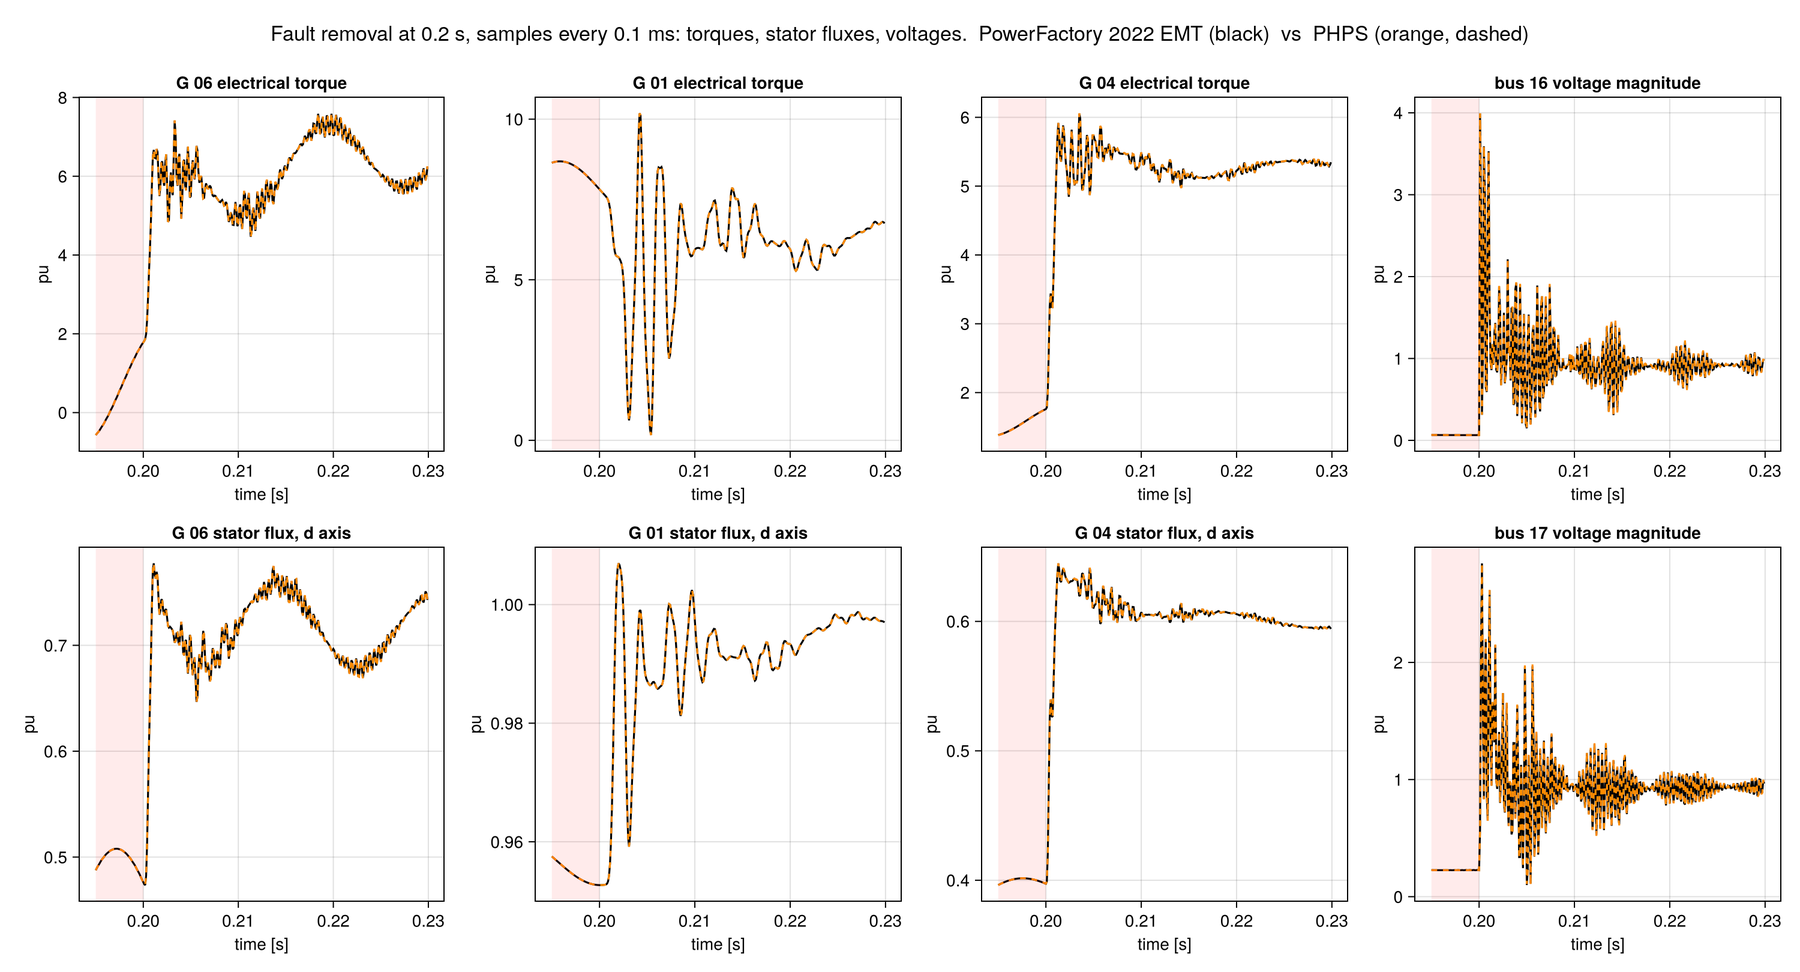
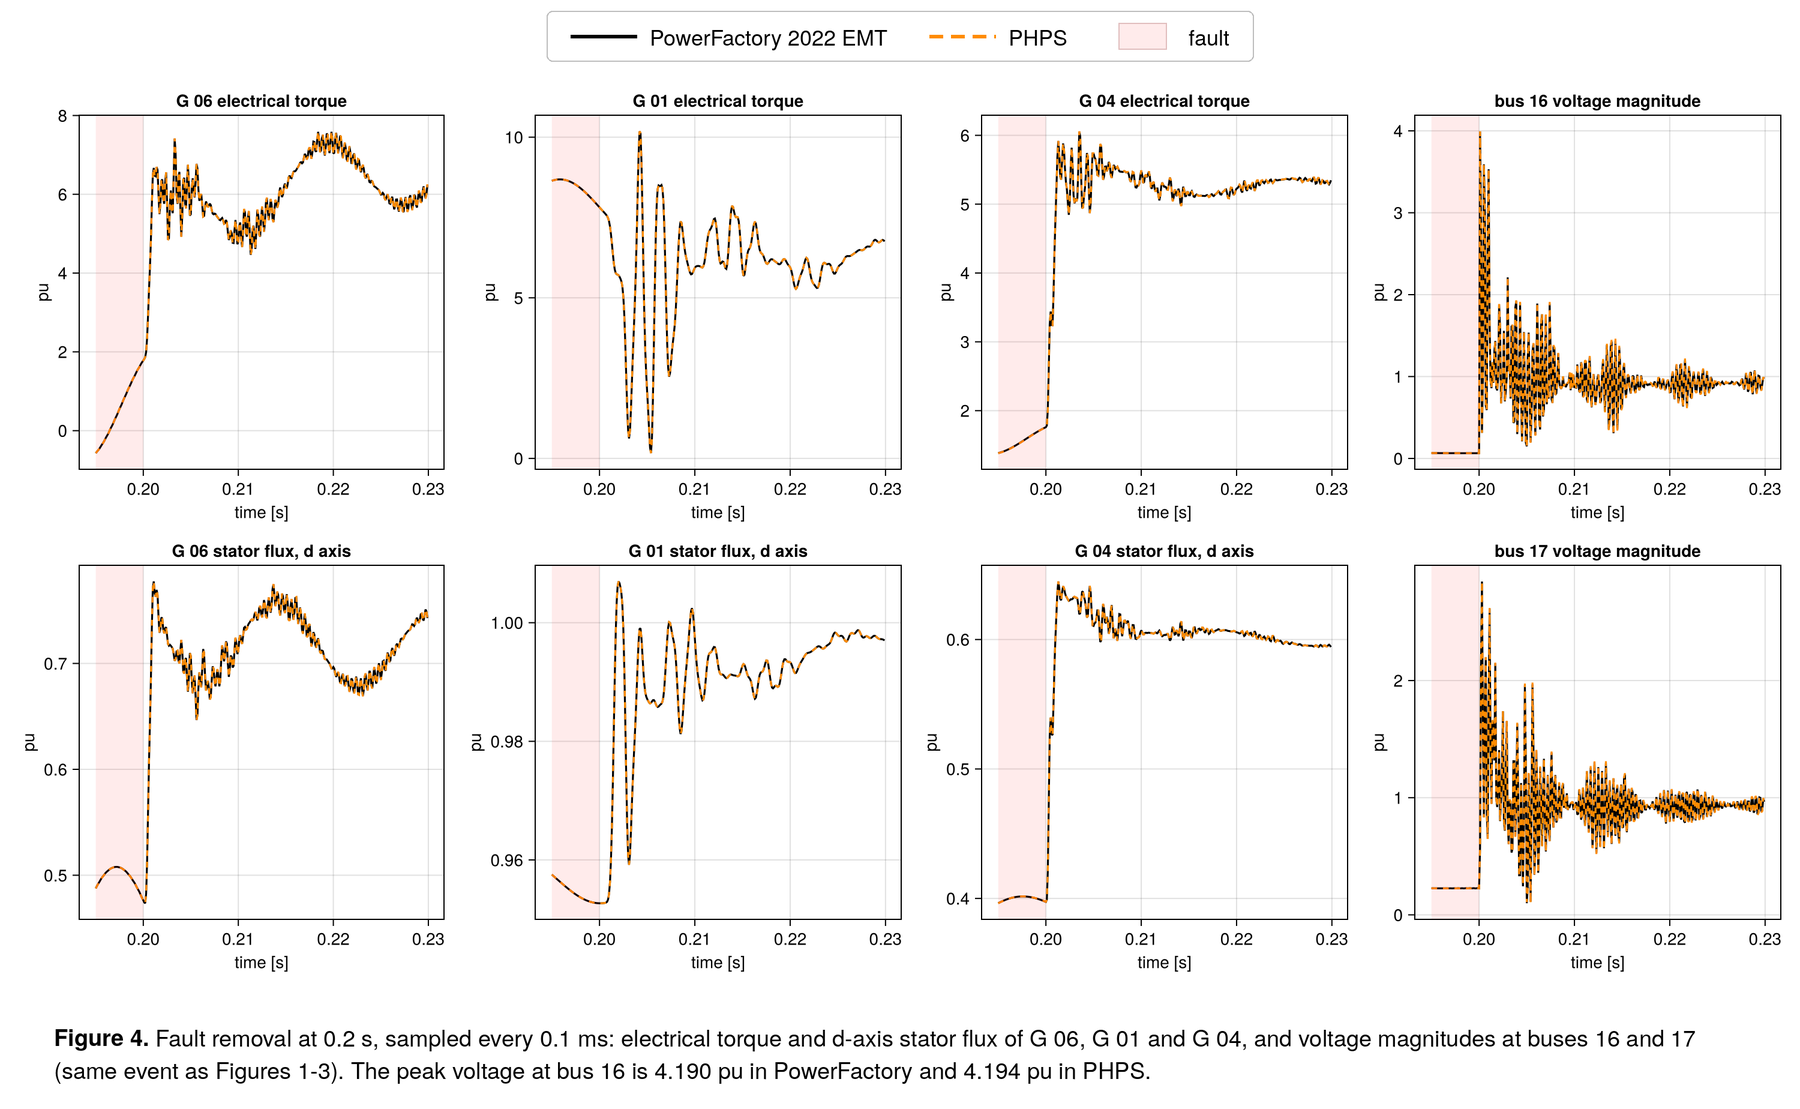
Accuracy figures: legend and numbered captions

diff --git a/docs/figures/README.md b/docs/figures/README.md
@@ -1,8 +1,8 @@
 # Accuracy: PHPS against PowerFactory EMT
 
 These figures compare PHPS's EMT simulation with **DIgSILENT PowerFactory 2022 SP1 in EMT mode** (instantaneous
-values), an established commercial simulator, on the same system and the same event. In every figure PowerFactory is
-the **black** line, PHPS the **orange dashed** line, and the fault is shaded.
+values), an established commercial simulator, on the same system and the same event. Each figure carries its own
+legend (PowerFactory solid black, PHPS orange dashed, the fault shaded) and a caption.
 
 ## The test
 
@@ -34,12 +34,12 @@ Before the fault the two tools sit at the same operating point: largest differen
 
 ## The figures
 
-| File | What it shows |
-|---|---|
-| [accuracy_rotor_angle.png](accuracy_rotor_angle.png) | rotor angle of every machine relative to G 01, over the whole run |
-| [accuracy_speed.png](accuracy_speed.png) | speed of every machine |
-| [accuracy_bus_voltage.png](accuracy_bus_voltage.png) | voltage magnitude at the faulted bus and eleven others, including the electromagnetic ringing at fault inception and removal |
-| [accuracy_fault_clearing.png](accuracy_fault_clearing.png) | a 35 ms window around fault removal at 0.1 ms resolution: electrical torques and stator fluxes of three machines, voltages at buses 16 and 17 |
+| Figure | File | What it shows |
+|---|---|---|
+| 1 | [accuracy_rotor_angle.png](accuracy_rotor_angle.png) | rotor angle of every machine relative to G 01, over the whole run |
+| 2 | [accuracy_speed.png](accuracy_speed.png) | speed of every machine |
+| 3 | [accuracy_bus_voltage.png](accuracy_bus_voltage.png) | voltage magnitude at the faulted bus and eleven others, including the electromagnetic ringing at fault inception and removal |
+| 4 | [accuracy_fault_clearing.png](accuracy_fault_clearing.png) | a 35 ms window around fault removal at 0.1 ms resolution: electrical torques and stator fluxes of three machines, voltages at buses 16 and 17 |
 
 ## The differences
 
